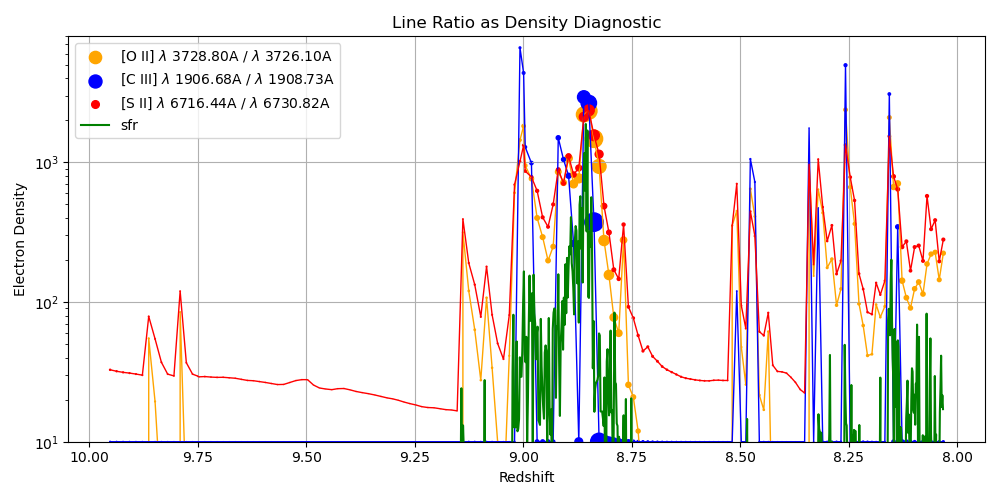
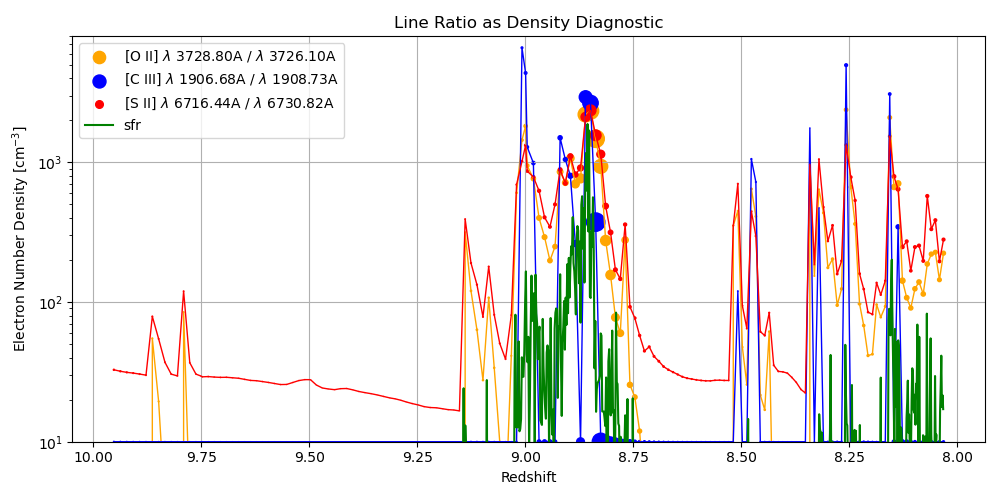
plotting tweaks

diff --git a/drivers/init-driver.py b/drivers/init-driver.py
@@ -741,6 +741,17 @@ phase_config_list = [
      'z_label': r'[O III] Ratio',
      'linear': False
     },
+    {'x_field': ('gas', 'my_temperature'),
+     'y_field': ('gas', 'electron_number_density'),
+     'z_field': ('gas', 'flux_O3_5006.84A'),
+     'extrema': {('gas', 'my_temperature'): (1e3, 1e8),
+                 ('gas', 'electron_number_density'): (0.5e-2, 1e5),
+                 ('gas', 'flux_H1_6562.80A'): (1e-20, 1e-14)},
+     'x_label': 'Log(Temperature) [K]', 
+     'y_label': r'Log(Electron Number Density) [cm$^{-3}$]', 
+     'z_label': r'Log([O III] 5006.84A Flux [erg s$^{-1}$ cm$^{-2}$]',
+     'linear': False
+    },
 ]
 
 
@@ -761,11 +772,11 @@ viz.phase_plot_wrapper(sp, phase_config_list)
 #-----------------------------
 
 # Cumulative Flux Plot
-viz.plot_cumulative_field(sp, [('gas', 'flux_H1_6562.80A')],
-                          r'H$\alpha$_6562.80A'.replace('_', ' ') + 
-                            r' Flux [erg s$^{-1}$ cm$^{-2}$]',
-                            'flux_H1_6562.80A_cumulative',
-                            (0,1000))
+#viz.plot_cumulative_field(sp, [('gas', 'flux_H1_6562.80A')],
+#                          r'H$\alpha$_6562.80A'.replace('_', ' ') + 
+#                            r' Flux [erg s$^{-1}$ cm$^{-2}$]',
+#                            'flux_H1_6562.80A_cumulative',
+#                            (0,1000))
 
 
 # TODO all 'Projected'
@@ -933,22 +944,22 @@ panel_config_line_emission_4 = [
 panel_config_line_emission_4_alt = [
      {'field': ('gas', 'flux_H1_4861.35A'),
      'plot_type': 'projection',
-     'weight_field': ('gas', 'my_H_nuclei_density'),
+     'weight_field': None,
      'title': r'H$\beta$_4861.35A'.replace('_', ' ') + 
                       r' Flux [erg s$^{-1}$ cm$^{-2}$]'},
     {'field': ('gas', 'flux_O2_3726.10A'),
      'plot_type': 'projection',
-     'weight_field': ('gas', 'my_H_nuclei_density'),
+     'weight_field': None,
      'title': 'O2_3726.10A'.replace('_', ' ') + 
                       r' Flux [erg s$^{-1}$ cm$^{-2}$]'},
     {'field': ('gas', 'flux_O3_5006.84A'),
      'plot_type': 'projection',
-     'weight_field': ('gas', 'my_H_nuclei_density'),
+     'weight_field': None,
      'title': 'O3_5006.84A'.replace('_', ' ') + 
                       r' Flux [erg s$^{-1}$ cm$^{-2}$]'},
     {'field': ('gas', 'flux_Mg2_2795.53A'),
      'plot_type': 'projection',
-     'weight_field': ('gas', 'my_H_nuclei_density'),
+     'weight_field': None,
      'title': 'Mg2_2795.53A'.replace('_', ' ') + 
                       r' Flux [erg s$^{-1}$ cm$^{-2}$]'},
 ]
@@ -994,11 +1005,11 @@ for line in lines[3::]:
 #viz.panel_plot(sp, panel_config_line_ratios, width, star_ctr, nrows=1, ncols=3, filename='panel_line_ratios')
 #viz.panel_plot(sp, panel_config_temp_line_ratios, width, star_ctr, nrows=1, ncols=3, filename='panel_temp_line_ratios')
 #viz.panel_plot(sp, panel_config_line_emission_4, width, star_ctr, nrows=2, ncols=2, filename='panel_line_emission_4')
-#viz.panel_plot(sp, panel_config_line_emission_4_alt, width, star_ctr, nrows=2, ncols=2, filename='panel_line_emission_4_alt')
+viz.panel_plot(sp, panel_config_line_emission_4_alt, width, star_ctr, nrows=2, ncols=2, filename='panel_line_emission_4_alt')
 #viz.panel_plot(sp, panel_config_line_emission_all, width, star_ctr, nrows=5, ncols=5, filename='panel_line_emission_all')
 
-viz.panel_plot(sp, panel_config_envi, width, star_ctr, nrows=2, ncols=3, filename='panel_envi_lims', lims_dict=lims_fiducial_00319)
-viz.panel_plot(sp, panel_config_envi_2, width, star_ctr, nrows=2, ncols=5, filename='panel_envi_2_lims', lims_dict=lims_fiducial_00319)
+#viz.panel_plot(sp, panel_config_envi, width, star_ctr, nrows=2, ncols=3, filename='panel_envi_lims', lims_dict=lims_fiducial_00319)
+#viz.panel_plot(sp, panel_config_envi_2, width, star_ctr, nrows=2, ncols=5, filename='panel_envi_2_lims', lims_dict=lims_fiducial_00319)
 #viz.panel_plot(sp, panel_config_ion_fracs, width, star_ctr, nrows=2, ncols=2, filename='panel_ion_fracs_lims', lims_dict=lims_fiducial_00319)
 #viz.panel_plot(sp, panel_config_eden_line_ratios, width, star_ctr, nrows=2, ncols=2, filename='panel_eden_line_ratios_lims', lims_dict=lims_fiducial_00319)
 #viz.panel_plot(sp, panel_config_temp_line_ratios, width, star_ctr, nrows=1, ncols=3, filename='panel_temp_line_ratios_lims', lims_dict=lims_fiducial_00319)
@@ -1009,10 +1020,10 @@ viz.panel_plot(sp, panel_config_envi_2, width, star_ctr, nrows=2, ncols=5, filen
 
 
 # Stellar Density
-viz.star_gas_overlay(sp, star_ctr, width, ('gas', 'flux_H1_6562.80A'),
-                    r'H$\alpha$_6562.80A'.replace('_', ' ') + 
-                            r' Flux [erg s$^{-1}$ cm$^{-2}$]', gas_flag=True,
-                            lims_dict=lims_fiducial_00319)
+#viz.star_gas_overlay(sp, star_ctr, width, ('gas', 'flux_H1_6562.80A'),
+#                    r'H$\alpha$_6562.80A'.replace('_', ' ') + 
+#                            r' Flux [erg s$^{-1}$ cm$^{-2}$]', gas_flag=True,
+#                            lims_dict=lims_fiducial_00319)
 
 
 

diff --git a/drivers/CC-Fiducial-03_post_analysis/diagnostic.py b/drivers/CC-Fiducial-03_post_analysis/diagnostic.py
@@ -107,7 +107,8 @@ plot_path
 
 # Extract additional physical parameters
 temperature = df["('gas', 'temperature')_mean"]
-density = df["('gas', 'density')_mean"]
+#density = df["('gas', 'density')_mean"]
+edensity = df["('gas', 'electron_number_density')_mean"]
 
 # Create an overlaid plot with a secondary y-axis
 fig, ax1 = plt.subplots(figsize=(12, 6))
@@ -122,9 +123,10 @@ ax1.tick_params(axis='y', labelcolor='b')
 ax2 = ax1.twinx()
 
 # Plot density and temperature on the secondary y-axis
-ax2.plot(df.current_redshift, density/1.6e-24, 'g--', label='Density (mean)')
+#ax2.plot(df.current_redshift, density/1.6e-24, 'g--', label='Density (mean)')
+ax2.plot(df.current_redshift, edensity, 'g--', label='Density (mean)')
 ax2.plot(df.current_redshift, temperature, 'r-.', label='Temperature (mean)')
-ax2.set_ylabel("Density / Temperature", color='k')
+ax2.set_ylabel(r"Electro Number Density [cm$^{-3}$], Temperature [K]", color='k')
 ax2.tick_params(axis='y', labelcolor='k')
 ax2.set_yscale('log')
 
@@ -138,6 +140,7 @@ lines, labels = ax1.get_legend_handles_labels()
 lines2, labels2 = ax2.get_legend_handles_labels()
 ax2.legend(lines + lines2, labels + labels2, loc='upper right')
 plt.gca().invert_xaxis()
+plt.grid(True)
 
 # Save the combined plot
 overlay_plot_path = "o3_density_temp_overlay.png"
@@ -205,8 +208,8 @@ plt.plot(ne_s2(xx),xx, label='fit s2')
 
 plt.xscale('log')
 plt.xlabel('Electron Density $n_e$ (cm$^{-3}$)')
-plt.ylabel('[O II] 3729 / 3726')
-plt.title('[O II] Line Ratio vs Electron Density\n(Te = 10,000 K)')
+plt.ylabel('Line Ratio')
+plt.title('Density Diagnostic Line Ratios vs Electron Density\n(Te = 10,000 K)')
 plt.grid(True)
 plt.axhline(1.5, color='gray', linestyle='--', label='Low-density limit')
 plt.axhline(0.35, color='gray', linestyle=':', label='High-density limit')
@@ -277,7 +280,7 @@ sfri  = sfri[sfr_mask]
 plt.plot(z_sfr, 5e3*sfri, color='green', label='sfr')
 
 plt.xlabel("Redshift")
-plt.ylabel("Electron Density")
+plt.ylabel(r"Electron Number Density [cm$^{-3}$]")
 plt.title("Line Ratio as Density Diagnostic")
 plt.grid(True)
 plt.yscale('log')

diff --git a/v1/Reference/Fiducial-Analysis/diagnostic.py b/v1/Reference/Fiducial-Analysis/diagnostic.py
@@ -101,7 +101,8 @@ plot_path
 
 # Extract additional physical parameters
 temperature = df["('gas', 'temperature')_mean"]
-density = df["('gas', 'density')_mean"]
+#density = df["('gas', 'density')_mean"]
+edensity = df["('gas', 'electron_number_density')_mean"]
 
 # Create an overlaid plot with a secondary y-axis
 fig, ax1 = plt.subplots(figsize=(12, 6))
@@ -116,9 +117,10 @@ ax1.tick_params(axis='y', labelcolor='b')
 ax2 = ax1.twinx()
 
 # Plot density and temperature on the secondary y-axis
-ax2.plot(df.index, density/1.6e-24, 'g--', label='Density (mean)')
+#ax2.plot(df.index, density/1.6e-24, 'g--', label='Density (mean)')
+ax2.plot(df.index, edensity, 'g--', label='Density (mean)')
 ax2.plot(df.index, temperature, 'r-.', label='Temperature (mean)')
-ax2.set_ylabel("Density / Temperature", color='k')
+ax2.set_ylabel(r"Electron Number Density [cm$^{-3}$] / Temperature [K]", color='k')
 ax2.tick_params(axis='y', labelcolor='k')
 ax2.set_yscale('log')
 
